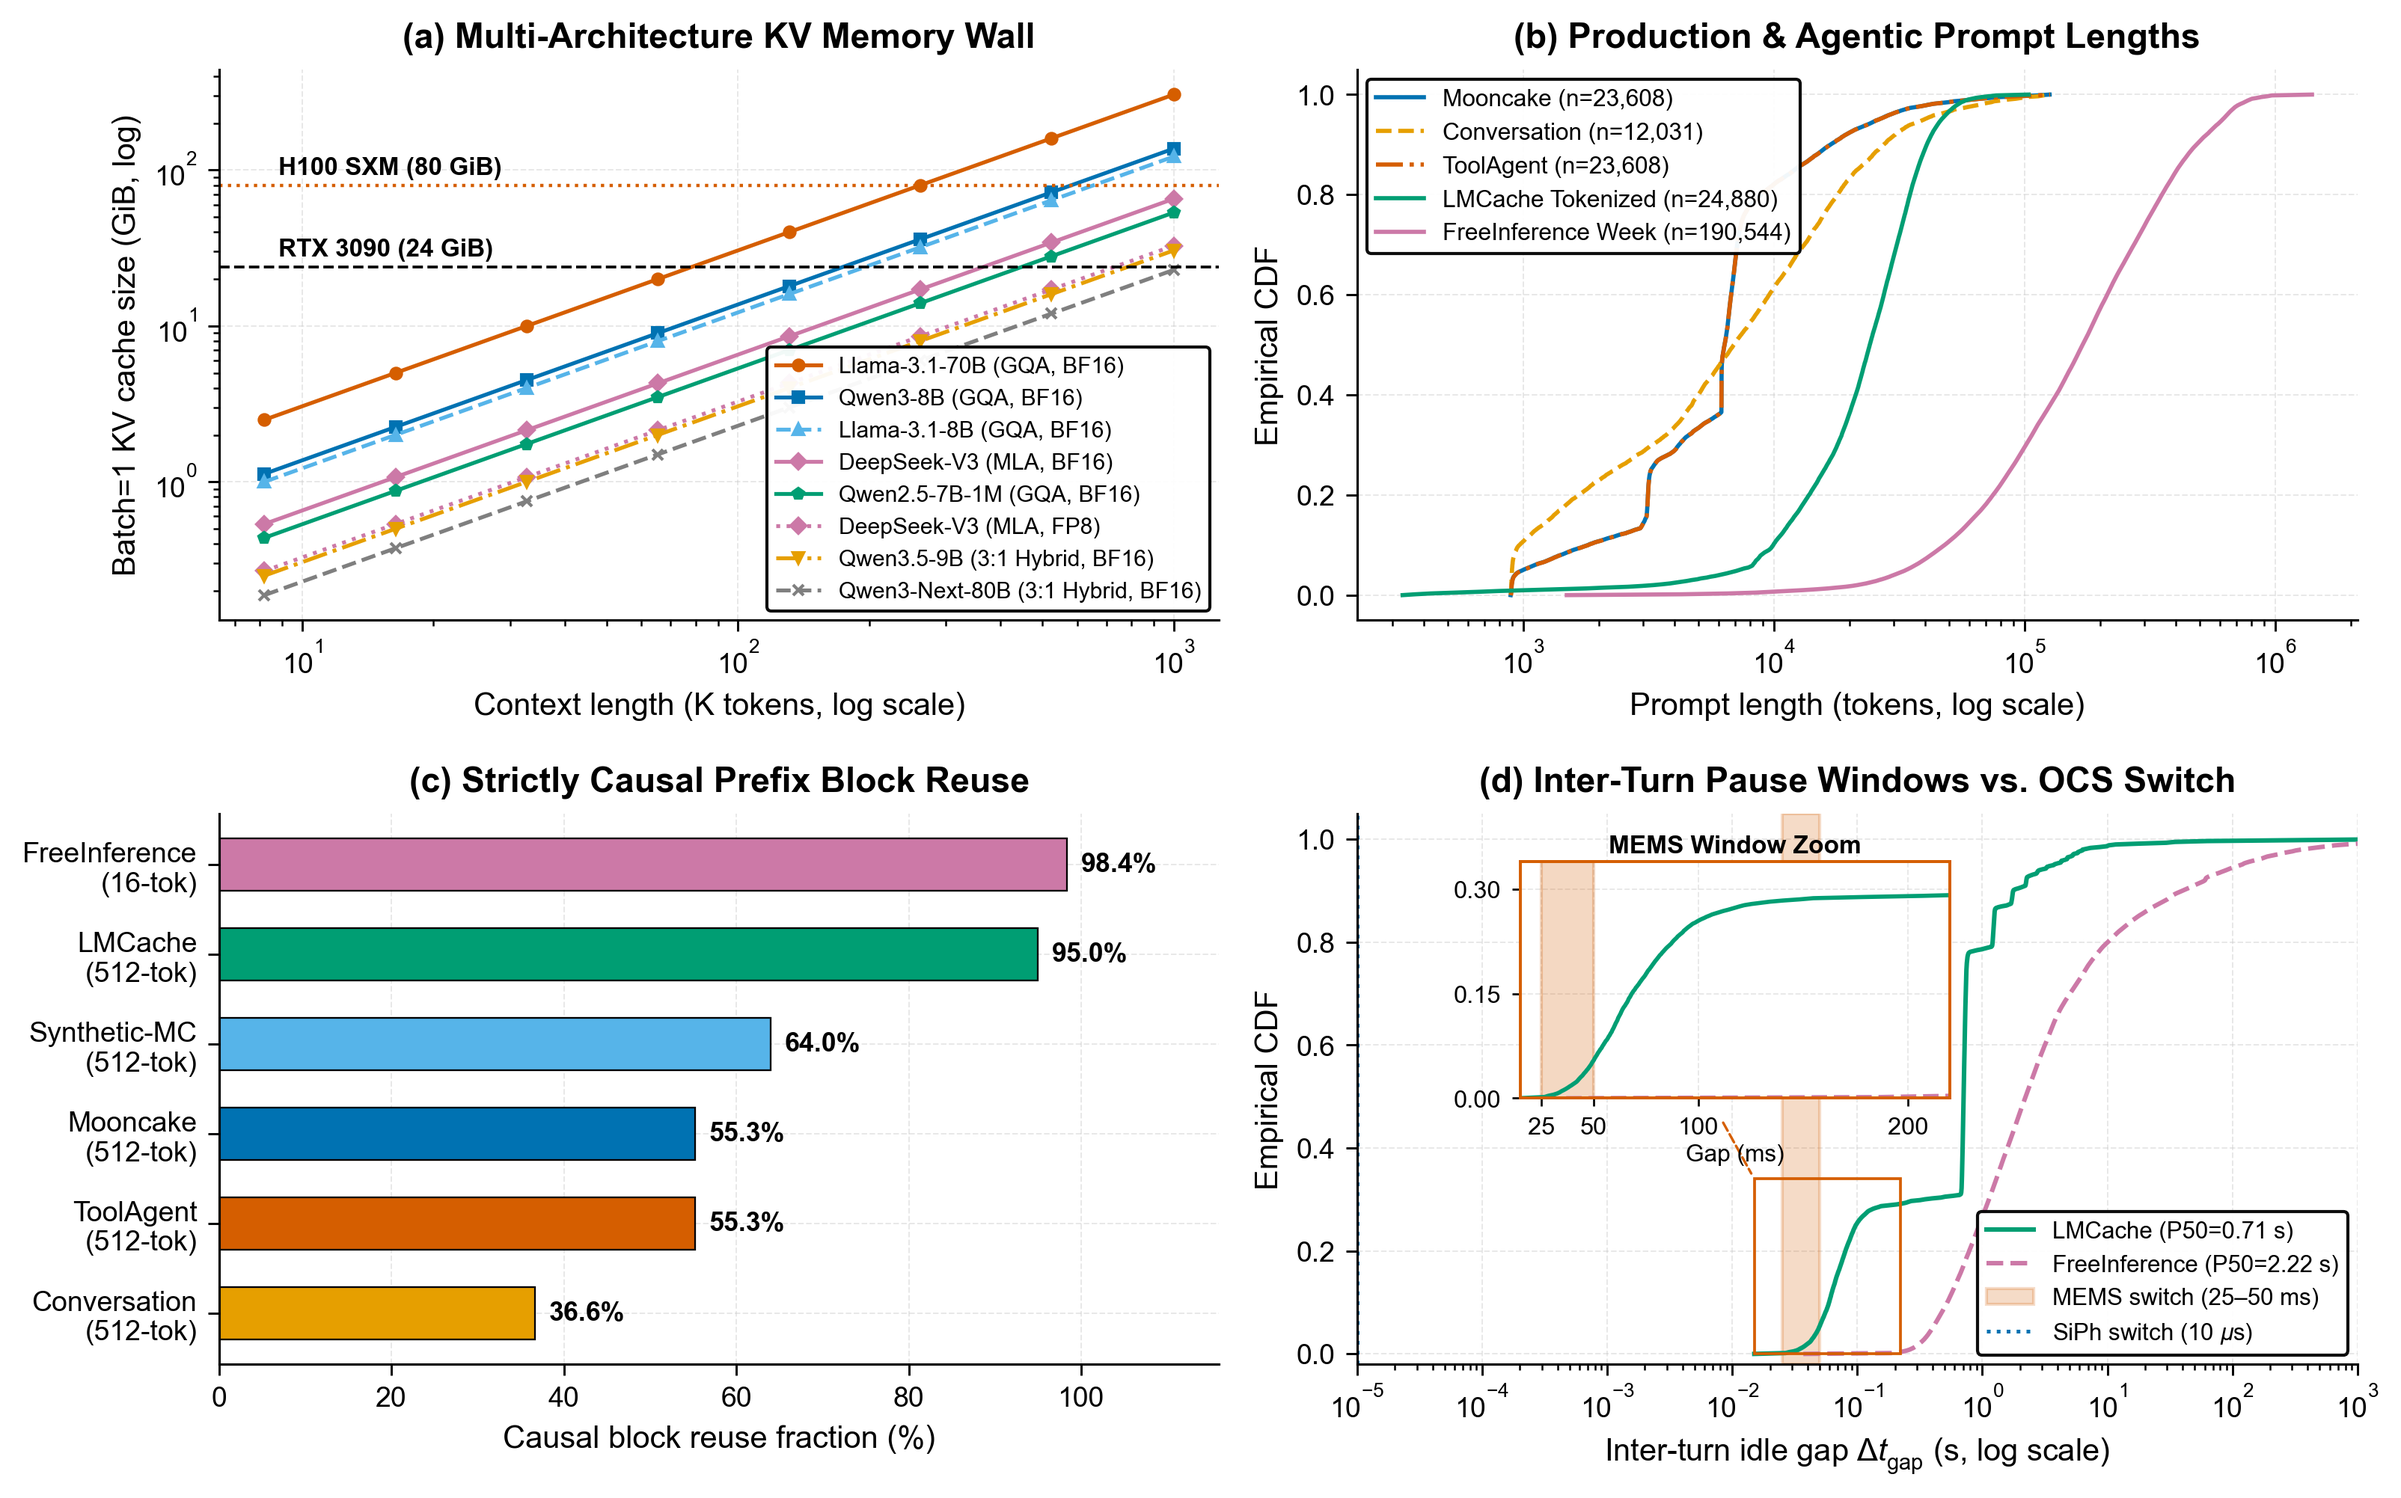
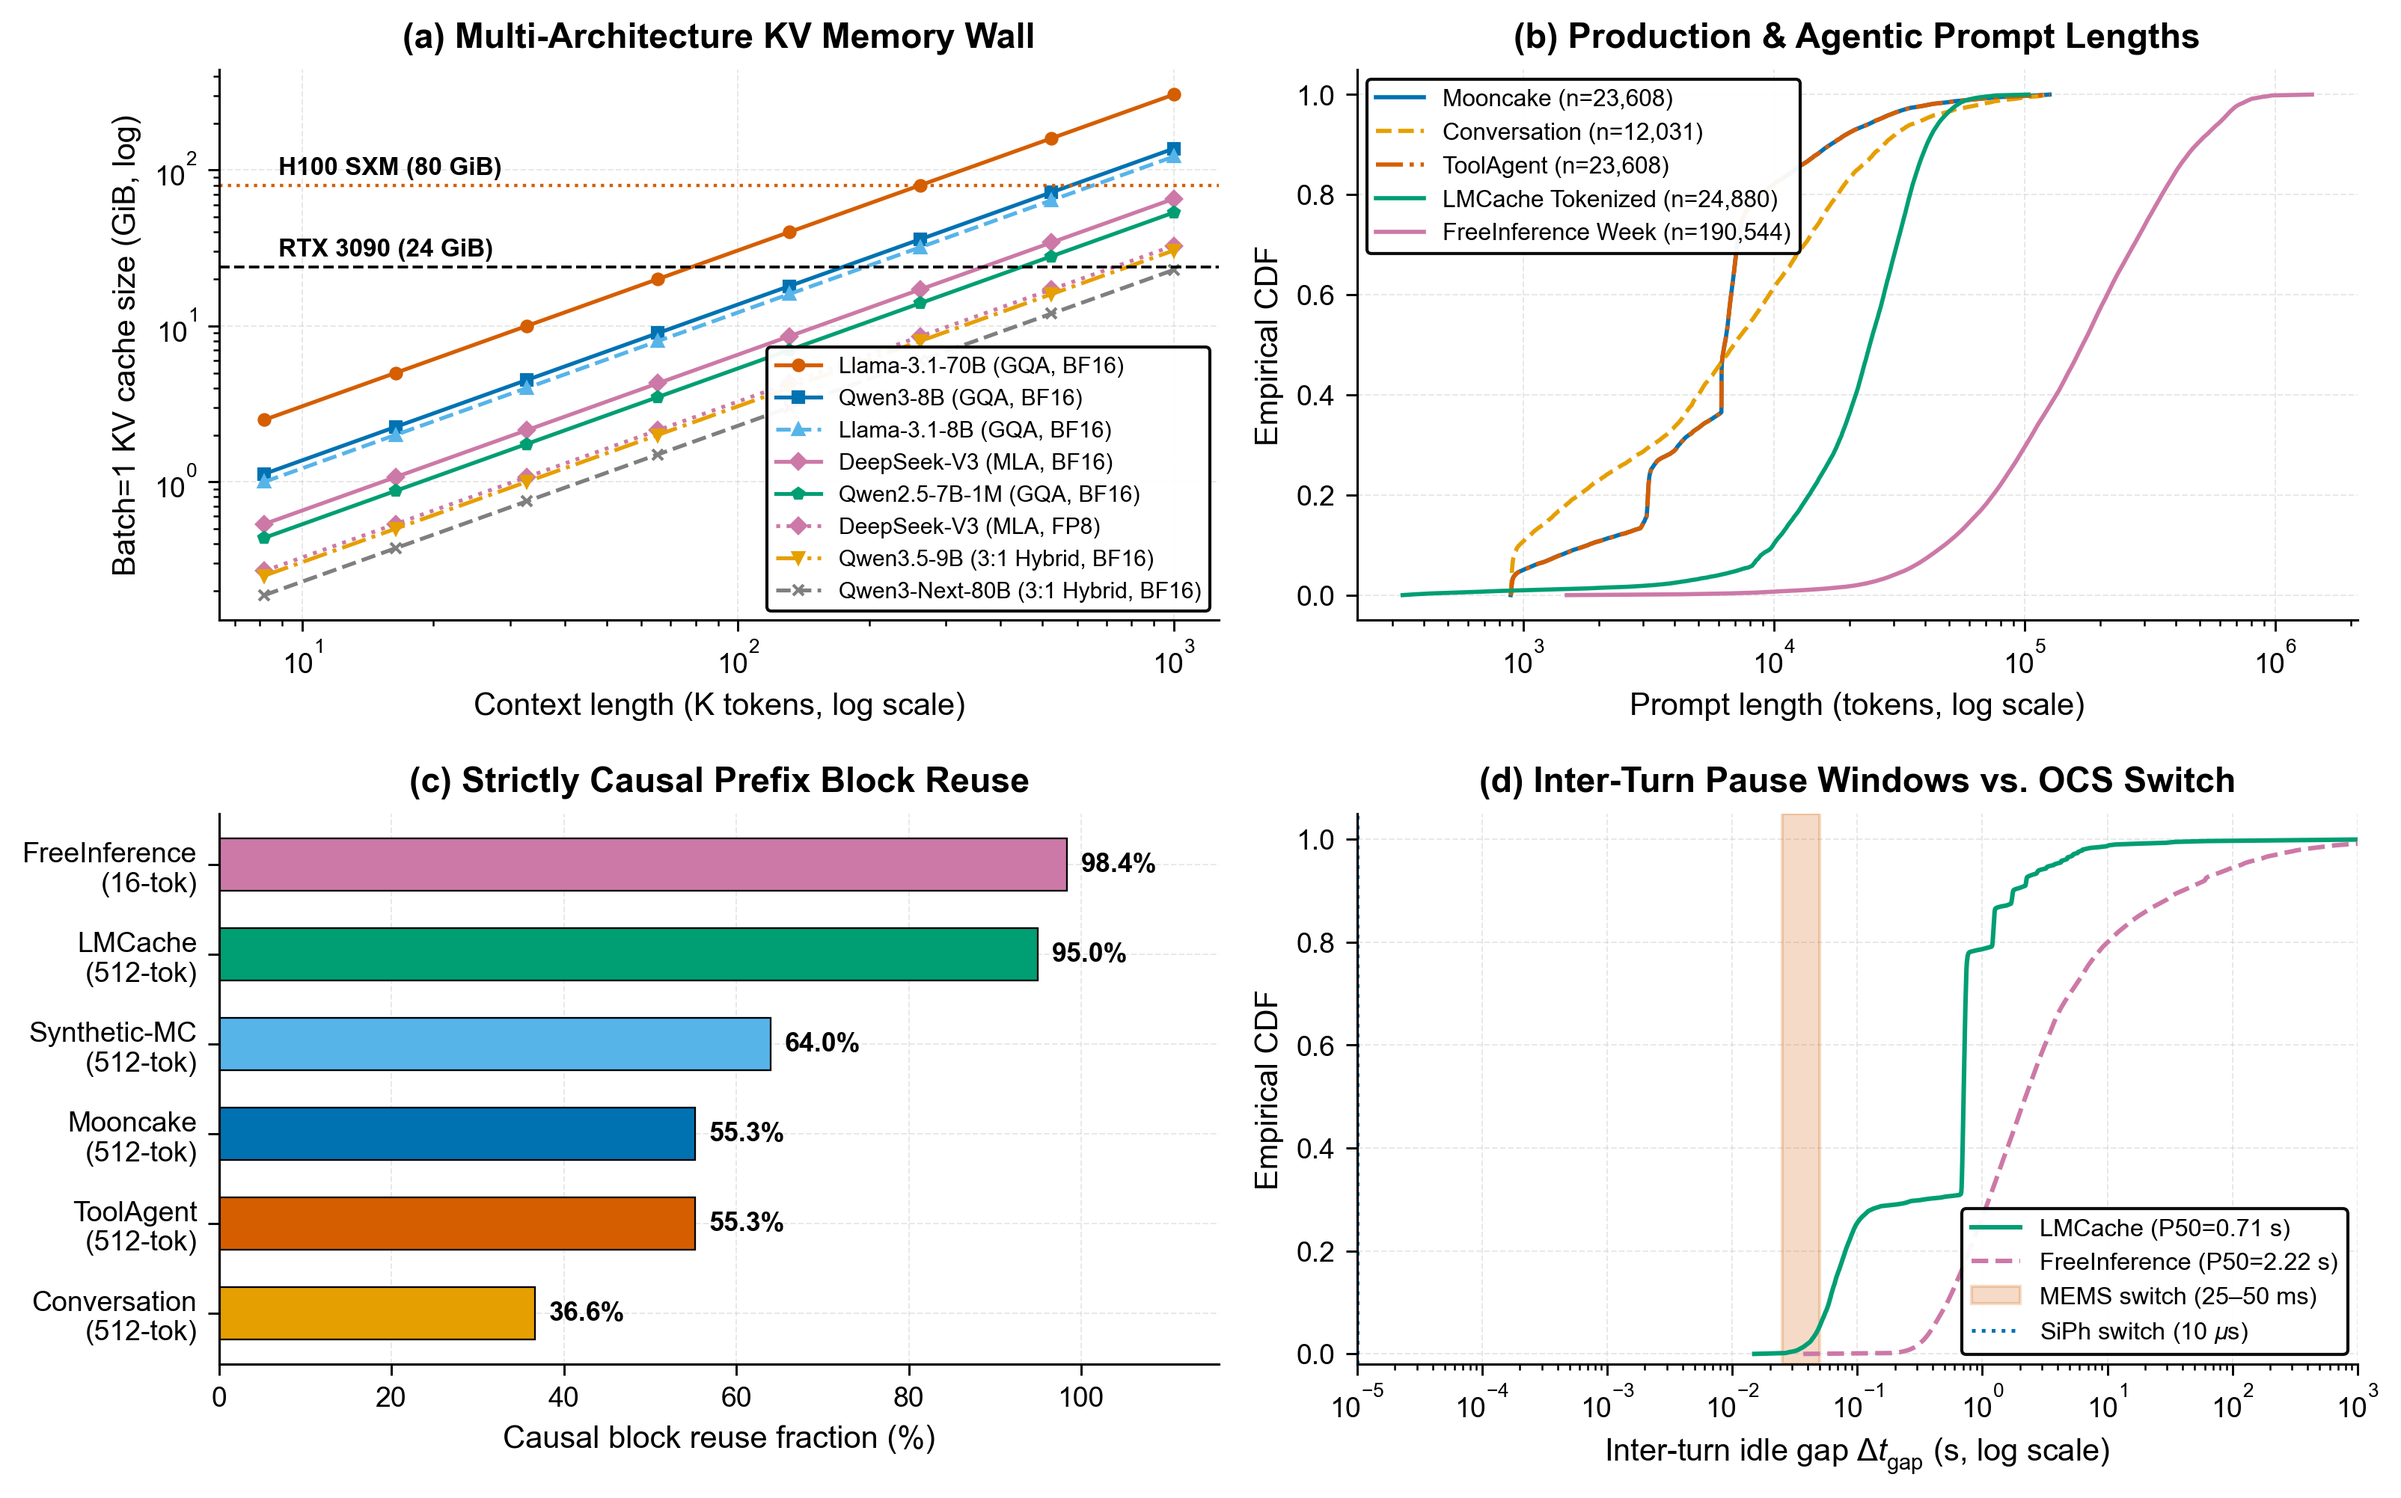
v2.4.1: Remove redundant zoom-in insets on Figs. 2(d), 6(b), 8(a), and 10(a) for cleaner layout

Changed region(s): [[0.6232, 0.5572, 0.8102, 0.7738], [0.8102, 0.8048, 0.966, 0.8977]]

diff --git a/scripts/make_publication_figures.py b/scripts/make_publication_figures.py
@@ -541,25 +541,7 @@ def make_fig2_workload_and_capacity() -> None:
     ax.set_xlabel("Inter-turn idle gap $\\Delta t_{\\mathrm{gap}}$ (s, log scale)")
     ax.set_ylabel("Empirical CDF")
     ax.set_title("(d) Inter-Turn Pause Windows vs. OCS Switch", loc="center")
-    ax.legend(loc="lower right", fontsize=7.5)
-
-    axins = inset_axes(ax, width="100%", height="100%",
-                       bbox_to_anchor=(0.15, 0.46, 0.43, 0.43),
-                       bbox_transform=ax.transAxes, loc="lower left")
-    axins.plot(lm_q * 1e3, qs, color=C_RDMA_PF, lw=1.35)
-    axins.plot(fi_q * 1e3, qs, color=C_CONCUR, lw=1.35, linestyle="--")
-    axins.axvspan(25.0, 50.0, color=C_NAIVE, alpha=0.24)
-    axins.set_xlim(15.0, 220.0)
-    axins.set_ylim(0.0, 0.34)
-    axins.set_xticks([25, 50, 100, 200])
-    axins.set_yticks([0.0, 0.15, 0.30])
-    axins.set_xlabel("Gap (ms)", fontsize=7.6, labelpad=1.5, color=C_BLACK)
-    axins.set_title("MEMS Window Zoom", fontsize=8.0, fontweight="bold", pad=2.8, color=C_BLACK)
-    _style_inset(axins)
-    rect_z = mpatches.Rectangle((0.015, 0.0), 0.22 - 0.015, 0.34, fill=False, edgecolor=C_NAIVE, lw=0.90, zorder=5)
-    ax.add_patch(rect_z)
-    ax.annotate("", xy=(0.015, 0.34), xytext=(0.008, 0.46),
-                arrowprops=dict(arrowstyle="-", color=C_NAIVE, lw=0.80, ls="--"))
+    ax.legend(loc="lower right", fontsize=7.8)
 
     fig.tight_layout()
     save_fig(fig, "fig2_trace_characterization")
@@ -885,28 +867,10 @@ def make_fig6_sensitivity() -> None:
     ax.set_xlabel("Optical fabric bandwidth (GB/s)")
     ax.set_ylabel("P50 TTFT (ms, log scale)")
     ax.set_title("(b) Optical Bandwidth Scaling (45–800 GB/s)", loc="center", fontsize=10.6)
-    ax.legend(loc="center left", bbox_to_anchor=(0.01, 0.56), fontsize=7.5)
-
-    axins = inset_axes(ax, width="100%", height="100%",
-                       bbox_to_anchor=(0.45, 0.37, 0.52, 0.37),
-                       bbox_transform=ax.transAxes, loc="lower left")
-    for pol in ("optikv", "rdma_prefetch", "rdma_routing"):
-        sub = df_bw[df_bw["policy"] == pol].sort_values("bandwidth_gb_s")
-        axins.plot(sub["bandwidth_gb_s"], sub["p50_ttft_s"] * 1e3, marker=POLICY_MARKER[pol], ms=3.5,
-                   color=POLICY_COLOR[pol], lw=1.45 if pol == "optikv" else 1.15)
-    axins.set_xscale("log")
-    axins.set_xlim(40, 880)
-    axins.set_ylim(25, 145)
-    axins.set_xticks([45, 100, 200, 800], ["45", "100", "200", "800"])
-    axins.xaxis.set_minor_formatter(plt.NullFormatter())
-    axins.set_yticks([40, 80, 120])
-    axins.set_ylabel("TTFT (ms)", fontsize=7.5, labelpad=1.5, color=C_BLACK)
-    axins.set_title("Law 2 Crossover Zoom", fontsize=7.9, fontweight="bold", pad=2.8, color=C_BLACK)
-    _style_inset(axins)
-    rect_bw = mpatches.Rectangle((42, 26), 840 - 42, 145 - 26, fill=False, edgecolor=C_NAIVE, lw=0.90, zorder=5)
-    ax.add_patch(rect_bw)
-    ax.annotate("", xy=(380, 145), xytext=(380, 480),
-                arrowprops=dict(arrowstyle="-", color=C_NAIVE, lw=0.80, ls="--"))
+    ax.legend(loc="center left", bbox_to_anchor=(0.01, 0.59), fontsize=7.6)
+    ax.annotate("Saturates 36.3 ms floor\nat 100–200 GB/s", xy=(100.0, 36.3), xytext=(220.0, 360.0),
+                fontsize=7.8, fontweight="bold", color=C_BLACK,
+                arrowprops=dict(arrowstyle="-|>", color=C_OPTIKV, lw=0.95))
 
     # --- Panel (c) ---
     ax = axes[1, 0]
@@ -1097,30 +1061,8 @@ def make_fig8_load() -> None:
     ax0.set_xlabel("Offered steady-state arrival rate (req/s)")
     ax0.set_ylabel("Median (P50) TTFT (s, log scale)")
     ax0.set_title("(a) Median TTFT Saturation Under Load (128K)", loc="center", fontsize=10.6)
-    ax0.legend(loc="center left", bbox_to_anchor=(0.015, 0.58), fontsize=6.1, ncol=2, handlelength=1.4, columnspacing=0.65)
-
-    axins = inset_axes(ax0, width="100%", height="100%",
-                       bbox_to_anchor=(0.55, 0.53, 0.43, 0.33),
-                       bbox_transform=ax0.transAxes, loc="lower left")
-    for pol in ("rdma_routing", "concur_rdma", "rdma_prefetch", "optikv", "oracle_infinite_hbm"):
-        sub = df[df["policy"] == pol].sort_values("target_rps")
-        sub_z = sub[sub["target_rps"] <= 24.5]
-        lw = 1.50 if pol == "optikv" else (1.15 if pol == "oracle_infinite_hbm" else 1.05)
-        ls = "--" if pol == "oracle_infinite_hbm" else "-"
-        axins.plot(sub_z["target_rps"], sub_z["p50_ttft_s"] * 1e3, marker=POLICY_MARKER[pol], ms=3.2,
-                   color=POLICY_COLOR[pol], lw=lw, ls=ls, zorder=5 if pol == "oracle_infinite_hbm" else 4)
-    axins.axhline(slo_s * 1e3, color=C_NAIVE, ls=":", lw=0.95)
-    axins.set_xlim(0.2, 25.2)
-    axins.set_ylim(18, 385)
-    axins.set_xticks([1, 8, 16, 24])
-    axins.set_yticks([50, 150, 250, 350])
-    axins.set_ylabel("TTFT (ms)", fontsize=7.4, labelpad=1.2, color=C_BLACK)
-    axins.set_title("Sub-SLO Regime Zoom", fontsize=7.8, fontweight="bold", pad=2.5, color=C_BLACK)
-    _style_inset(axins)
-    rect_slo = mpatches.Rectangle((0.4, 0.026), 24.4, 0.39 - 0.026, fill=False, edgecolor=C_NAIVE, lw=0.90, zorder=5)
-    ax0.add_patch(rect_slo)
-    ax0.annotate("", xy=(22.0, 0.39), xytext=(22.0, 2.35),
-                 arrowprops=dict(arrowstyle="-", color=C_NAIVE, lw=0.80, ls="--"))
+    ax0.legend(loc="center left", bbox_to_anchor=(0.015, 0.57), fontsize=6.6, ncol=2, handlelength=1.5, columnspacing=0.75)
+    ax0.text(31.8, 0.21, "250 ms SLO", ha="right", va="top", fontsize=7.8, fontweight="bold", color=C_BLACK)
 
     ax1.set_xlabel("Offered steady-state arrival rate (req/s)")
     ax1.set_ylabel(f"SLO goodput (req/s, TTFT $\\leq$ {slo_lbl})")
@@ -1351,31 +1293,11 @@ def make_fig10_live_3090_hil_replay() -> None:
     ax_t.set_ylabel("Live E2E TTFT (ms, log)")
     ax_t.set_title(f"(a) Qualitative Per-Request Live RTX 3090 Trajectory (N={n_sess}$\\times$8K, {working_gib:.2f} vs. {pool_gib:.2f} GiB HBM)",
                    loc="center", fontsize=10.6)
-    ax_t.legend(loc="lower left", bbox_to_anchor=(0.006, 0.015), fontsize=6.7, ncol=2, handlelength=1.4, columnspacing=0.65)
-
-    axins = inset_axes(ax_t, width="100%", height="100%",
-                       bbox_to_anchor=(0.56, 0.34, 0.42, 0.44),
-                       bbox_transform=ax_t.transAxes, loc="lower left")
-    for mkey, _, mcol, mmk, mls, mlw, mz in mode_specs[1:]:
-        sub = df_req[(df_req["mode"] == mkey) & (df_req["turn"] >= 1)].sort_values(["turn", "session"])
-        axins.plot(np.arange(13, 13 + len(sub)), sub["e2e_ttft_ms"].values,
-                   color=mcol, marker=mmk, ms=2.9, lw=mlw * 0.85, ls=mls, zorder=mz)
-    axins.plot(req_x[12:], gt_floor[12:], color=C_BLACK, ls="--", lw=1.05, zorder=7)
-    axins.text(24.5, 56.3, "Optical-Naive: +22.3% Law 3 breakout", ha="center", va="bottom",
-               fontsize=7.2, fontweight="bold", color=C_BLACK)
-    axins.set_xlim(12.5, 36.5)
-    axins.set_ylim(40.5, 59.5)
-    axins.set_xticks([13, 18, 24, 30, 36])
-    axins.set_yticks([44, 50, 56])
-    axins.set_ylabel("TTFT (ms)", fontsize=7.4, labelpad=1.2, color=C_BLACK,
-                     bbox=dict(facecolor="white", edgecolor="none", pad=0.7))
-    axins.set_title("Turns 1–2 Reuse Zoom (Linear)", fontsize=7.9, fontweight="bold", pad=2.5, color=C_BLACK)
-    _style_inset(axins)
-    axins.set_zorder(10)
-    rect_tr = mpatches.Rectangle((12.6, 36), 23.8, 66 - 36, fill=False, edgecolor=C_NAIVE, lw=0.90, zorder=5)
-    ax_t.add_patch(rect_tr)
-    ax_t.annotate("", xy=(26.0, 66), xytext=(26.0, 290),
-                  arrowprops=dict(arrowstyle="-", color=C_NAIVE, lw=0.80, ls="--"))
+    ax_t.legend(loc="lower left", bbox_to_anchor=(0.006, 0.015), fontsize=7.1, ncol=2, handlelength=1.4, columnspacing=0.65)
+    ax_t.annotate("Optical-Naive (54.9 ms):\n+22.3% Law 3 breakout vs. OptiKV (44.9 ms)",
+                  xy=(28.0, 56.0), xytext=(22.2, 260.0),
+                  fontsize=7.8, fontweight="bold", color=C_BLACK,
+                  arrowprops=dict(arrowstyle="-|>", color=C_NAIVE, lw=0.95))
 
     # --- Panel (b): Reuse P50 & P95 Bar Summary (OptiKV-Fabric at FAR RIGHT) ---
     ax = fig.add_subplot(gs[1, 0])
